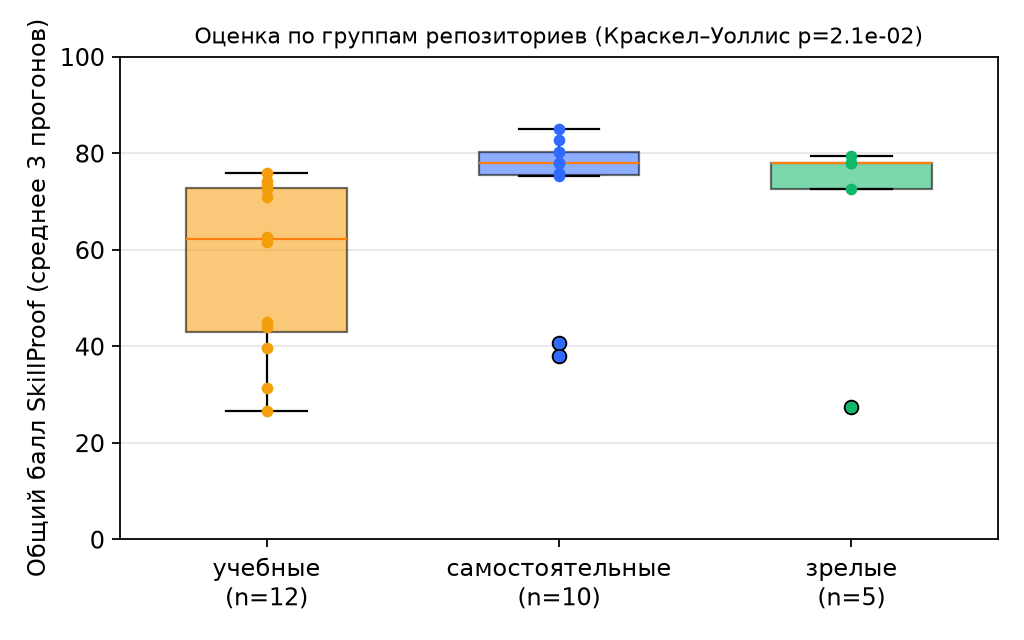
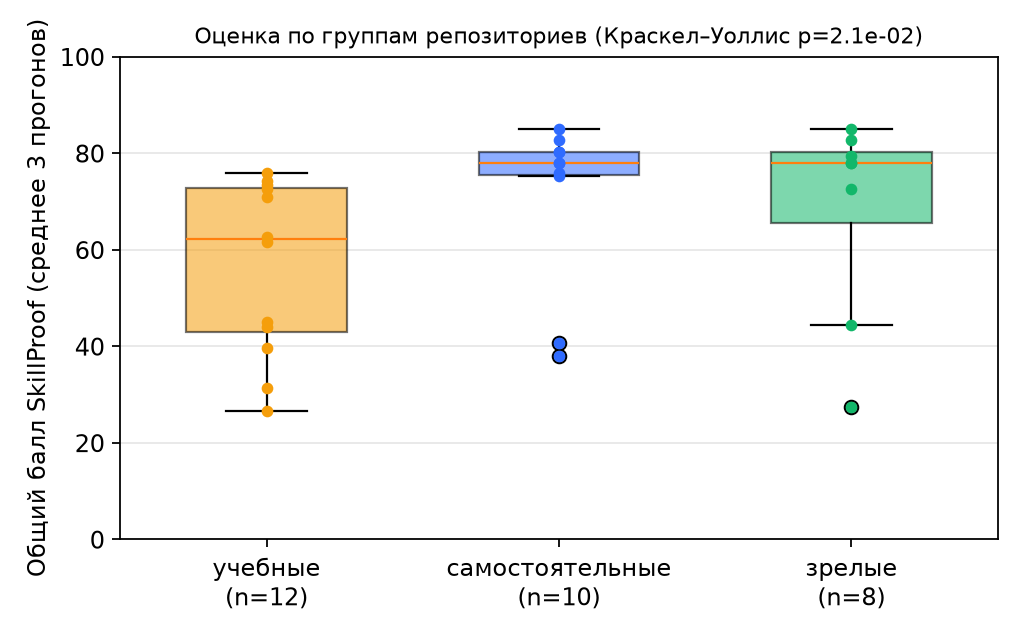
Research: all 126 runs complete (30/30 repositories); final statistics and figures

Changed region(s): [[0.75, 0.2812, 0.9375, 0.5312], [0.75, 0.1875, 0.9062, 0.25], [0.8438, 0.9062, 0.875, 0.9375]]

diff --git a/research/paper/build_paper.py b/research/paper/build_paper.py
@@ -379,7 +379,7 @@ for row in rows:
         row[7] = num(round(idx[row[1]], 2))
 table(doc, ["Стр.", "Репозиторий", "Язык", "Файлов кода", "Коммитов", "Тест. файлов", "CI", "Индекс", "Общий балл", "Сложн."], rows,
       widths=[1.0, 5.2, 1.6, 1.3, 1.4, 1.2, 0.9, 1.3, 1.3, 1.3], size=8, keep=False,
-      caption="Таблица В.1 — Репозитории выборки, объективные метрики и средние оценки SkillProof («—» — оценка ещё не получена из-за суточного лимита ИИ)")
+      caption="Таблица В.1 — Репозитории выборки, объективные метрики и средние оценки SkillProof" + (" («—» — оценка ещё не получена из-за суточного лимита ИИ)" if _pending else ""))
 
 heading(doc, "ПРИЛОЖЕНИЕ Г. Системная инструкция SkillProof (рубрика оценки)", page_break=True)
 para(doc, "Текст приводится в том виде, в котором он используется на сервере (файл server/score.mjs); инструкция написана на английском, так как модель точнее следует англоязычным правилам, а ответы для ученика выдаёт на русском.", indent=False, size=12)
